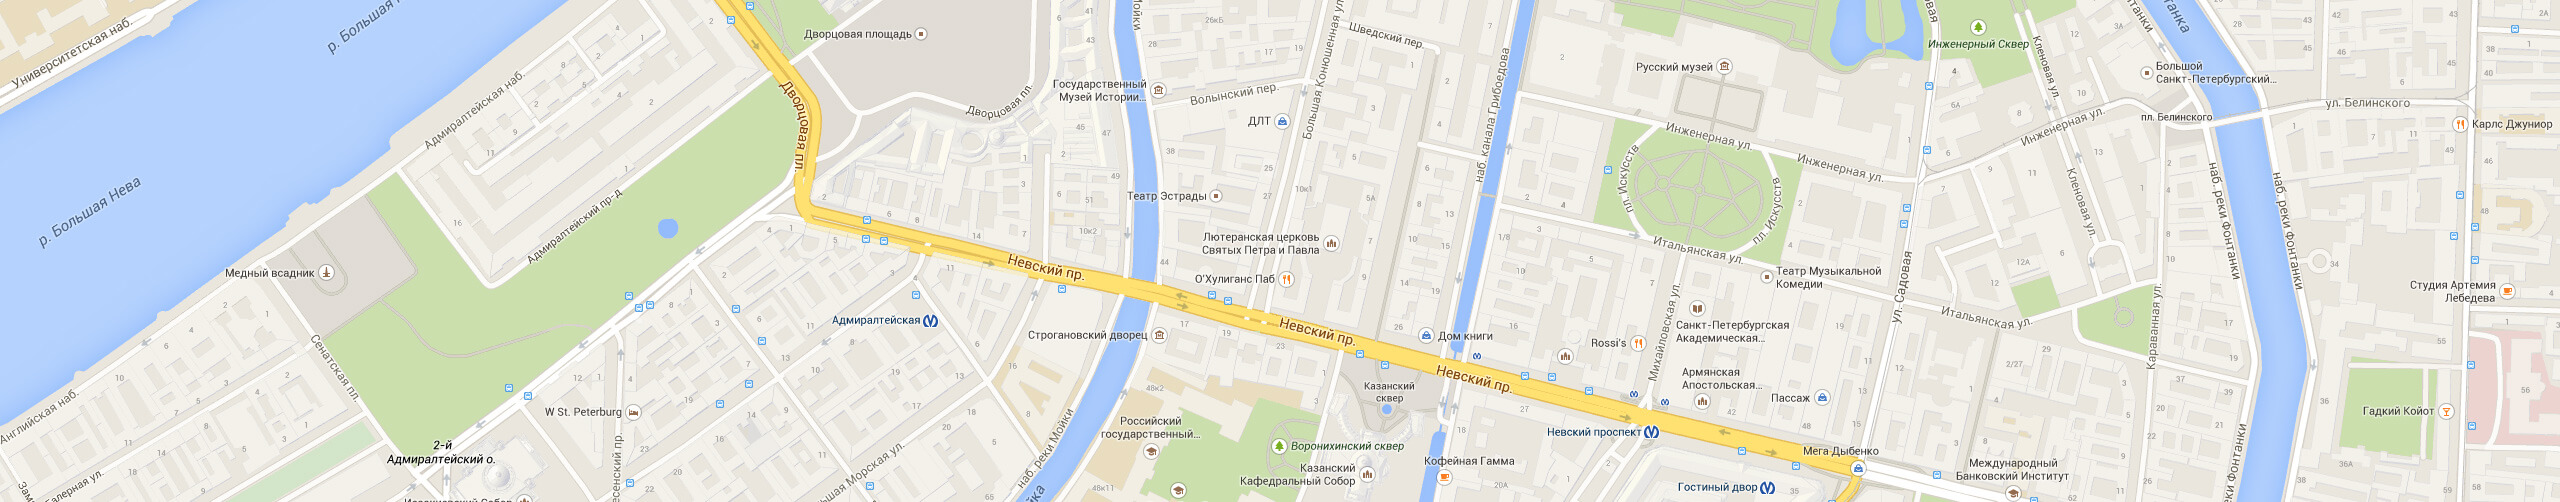
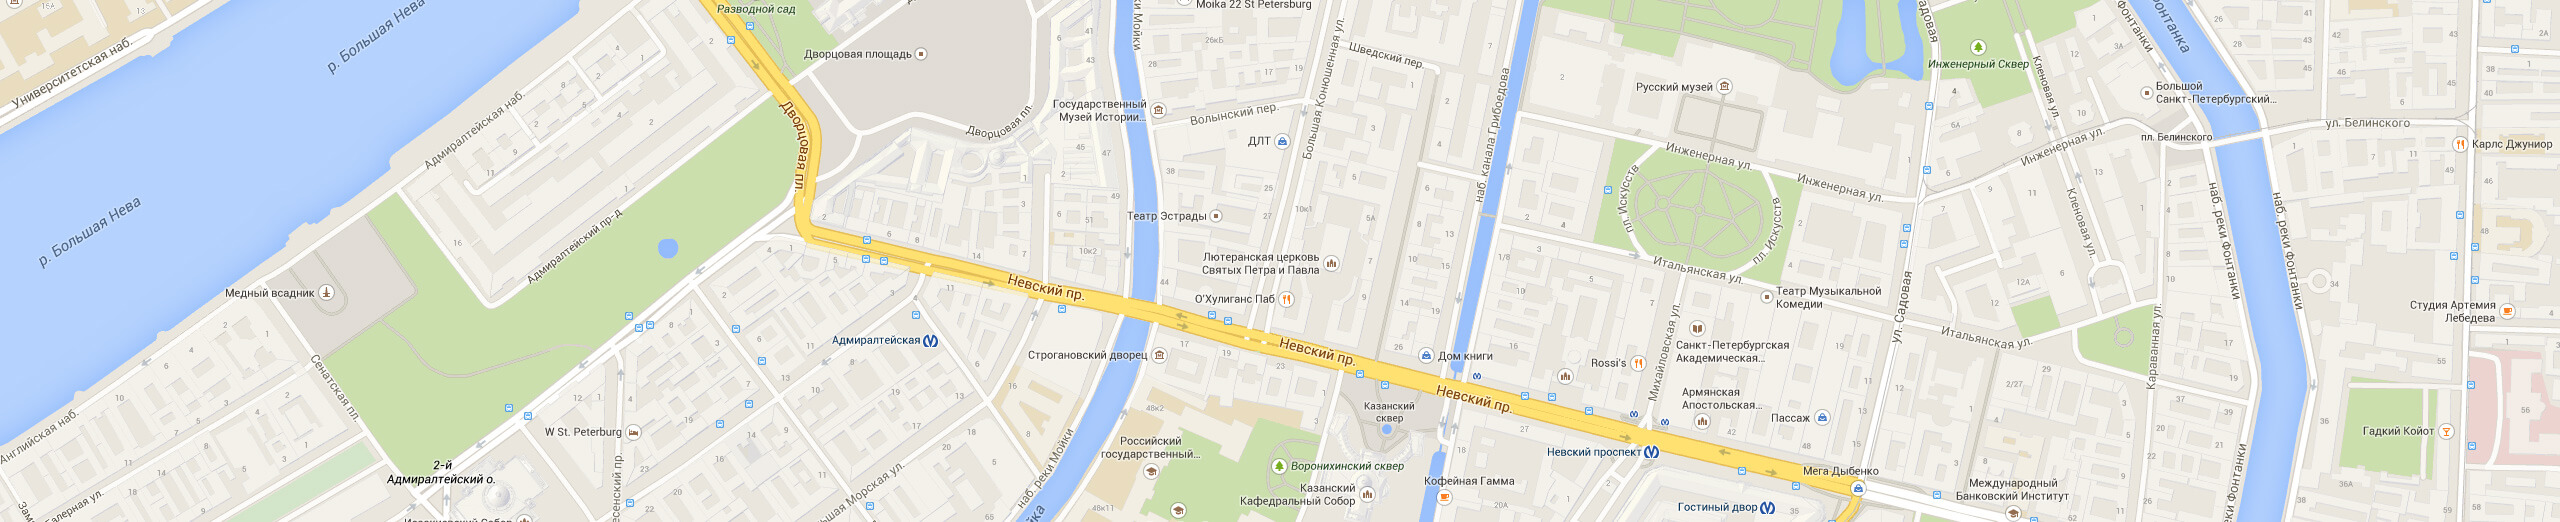
В index.html были добавлены теги picture и source, в облоблости app-features и  feedback

diff --git a/source/index.html b/source/index.html
@@ -127,10 +127,24 @@
             <p class="feature-list__text">Ставьте лайки, комментируйте, делитесь фотографиями с друзьями и заводите новых</p>
           </li>
         </ul>
-        <div class="app-features__image-wrap">
-          <img class="app-features__image" src="img/Iphone-screen-mobile@1x.png" alt="Серая и скучная фотография окрашена в розовый цвет">
-          <img class="app-features__image" src="http://placehold.it/157x320" alt="Серая и скучная фотография окрашена в розовый цвет">
-          <img class="app-features__image" src="http://placehold.it/157x320" alt="Серая и скучная фотография окрашена в розовый цвет">
+        <div class="app-features__wrap">
+          <picture class="app-features__image-wrap">
+            <source type="image/webp" media="(min-width: 960px)" srcset="img/iphone-screen-desk-one@1x.webp 1x, img/iphone-screen-desk-one@2x.webp 2x">
+            <source type="image/webp" media="(min-width: 66px)" srcset="img/Iphone-screen-table@1x.webp 1x, img/Iphone-screen-table@2x.webp 2x">
+            <source type="image/webp" srcset="img/Iphone-screen-mobile@1x.webp 1x, img/Iphone-screen-mobile@2x.webp 2x">
+
+            <source media="(min-width: 960px)" srcset="img/iphone-screen-desk-one@1x.npg 1x, img/iphone-screen-desk-one@2x.png 2x">
+            <source media="(min-width: 660px)" srcset="img/Iphone-screen-table@1x.npg 1x, img/Iphone-screen-table@2x.png 2x">
+            <img class="app-features__image" src="img/Iphone-screen-mobile@1x.png" srcset="img/Iphone-screen-mobile@2x.png 2x" alt="Серая и скучная фотография">
+          </picture>
+          <picture class="app-features__image-wrap app-features__image-wrap--state">
+            <source type="image/webp" srcset="img/iphone-screen-desk-two@1x.webp 1x, img/iphone-screen-desk-two@2x.webp 2x">
+            <img class="app-features__image" src="img/iphone-screen-desk-two@1x.npg" srcset="img/iphone-screen-desk-two@2x.png 2x" alt="Фотография окрашена в розовый цвет">
+          </picture>
+          <picture class="app-features__image-wrap app-features__image-wrap--state">
+            <source type="image/webp" srcset="img/iphone-screen-desk-three@1x.webp 1x, img/iphone-screen-desk-three@2x.webp 2x">
+            <img class="app-features__image" src="img/iphone-screen-desk-three@1x.npg" srcset="img/iphone-screen-desk-three@2x.png 2x" alt="Фотография окрашена в розовый цвет со смайликом">
+          </picture>
         </div>
       </div>
     </section>
@@ -240,7 +254,17 @@
       </div>
       <div class="feedback__wrapper-map">
         <div>
-          <img class="feedback__maps" src="img/map-mobile@1x.jpg" alt="ул. Большая Конюшенная, 19/8">
+          <picture>
+            <source type="image/webp" media="(min-width: 1500px)" srcset="img/map-desk@1x.webp 1x, img/map-desk@2x.webp 2x">
+            <source type="image/webp" media="(min-width: 960px)" srcset="img/map-660px@1x.webp 1x, img/map-660px@2x.webp 2x">
+            <source type="image/webp" media="(min-width: 660px)" srcset="img/map-table@1x.webp 1x, img/map-table@2x.webp 2x">
+            <source type="image/webp" srcset="img/map-mobile@1x.webp 1x, img/map-mobile@2x.webp 2x">
+
+            <source media="(min-width: 1500px)" srcset="img/map-desk@1x.jpg 1x, img/map-desk@2x.jpg 2x">
+            <source media="(min-width: 960px)" srcset="img/map-660px@1x.jpg 1x, img/map-660px@2x.jpg 2x">
+            <source media="(min-width: 660px)" srcset="img/map-table@1x.jpg 1x, img/map-table@2x.jpg 2x">
+            <img class="feedback__maps" src="img/map-mobile@1x.jpg" srcset="img/map-mobile@2x.jpg 2x" alt="ул. Большая Конюшенная, 19/8">
+          </picture>
         </div>
       </div>
     </section>

diff --git a/source/sass/blocks/app-features.scss b/source/sass/blocks/app-features.scss
@@ -43,19 +43,21 @@
   margin: 0;
 }
 
-.app-features__image-wrap {
+.app-features__wrap {
   align-self: center;
   z-index: 2;
+}
+
+.app-features__image-wrap {
+  &--state {
+    display: none;
+  }
 }
 
 .app-features__image {
   display: block;
   width: 157px;
   height: 278px;
-}
-
-.app-features__image + .app-features__image {
-  display: none;
 }
 
 @media (min-width: $table-width) {
@@ -83,7 +85,7 @@
     }
   }
 
-  .app-features__image-wrap {
+  .app-features__wrap {
     align-self: flex-end;
   }
 
@@ -106,14 +108,16 @@
     display: flex;
   }
 
-  .app-features__image-wrap {
+  .app-features__wrap {
     display: flex;
     justify-content: space-around;
     align-self: stretch;
   }
 
-  .app-features__image + .app-features__image {
-    display: block;
+  .app-features__image-wrap {
+    &--state {
+      display: block;
+    }
   }
 
   .app-features__image {

diff --git a/source/sass/blocks/feedback.scss b/source/sass/blocks/feedback.scss
@@ -260,7 +260,7 @@
 
   .feedback__maps {
     width: 100%;
-    height: 502px;
+    height: 521px;
   }
 }
 
@@ -273,9 +273,5 @@
     &::after {
       top: 294px;
     }
-  }
-
-  .feedback__maps {
-    height: 521px;
   }
 }
